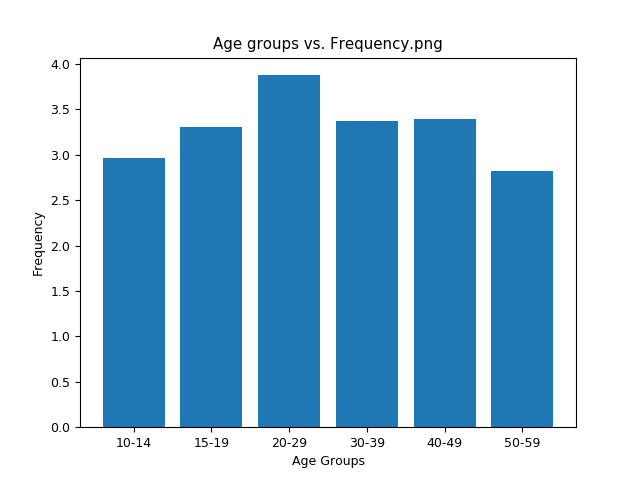
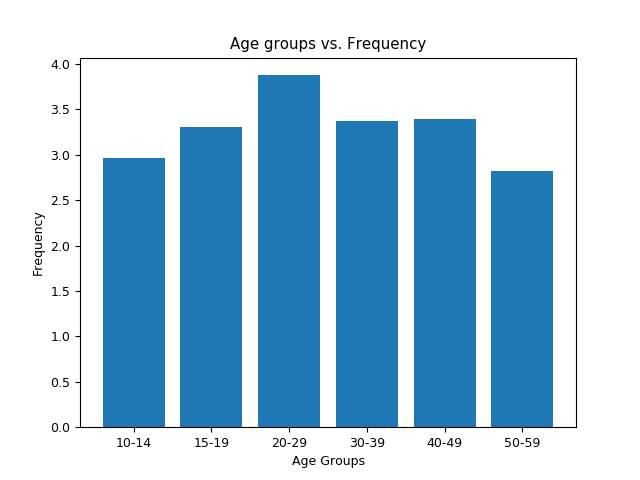
r

Changed region(s): [[0.3438, 0.0625, 0.6875, 0.125]]

diff --git a/get-data.py b/get-data.py
@@ -66,11 +66,13 @@ if __name__ == '__main__':
 
     plt.rcParams['font.size'] = 9
     for var, values in data.items():
+        if var=="Interest":
+            values=[i-1 for i in values]
 
         plt.bar([f'{age_groups[i][0]}-{age_groups[i][1]-1}' for i in range(len(age_groups))], values)
         plt.xlabel("Age Groups")
         plt.ylabel(var)
-        plt.title(f"Age groups vs. {var}.png")
+        plt.title(f"Age groups vs. {var}")
         plt.savefig(f"Age groups vs. {var}.png")
         plt.close()
     other_threshold=0.02
